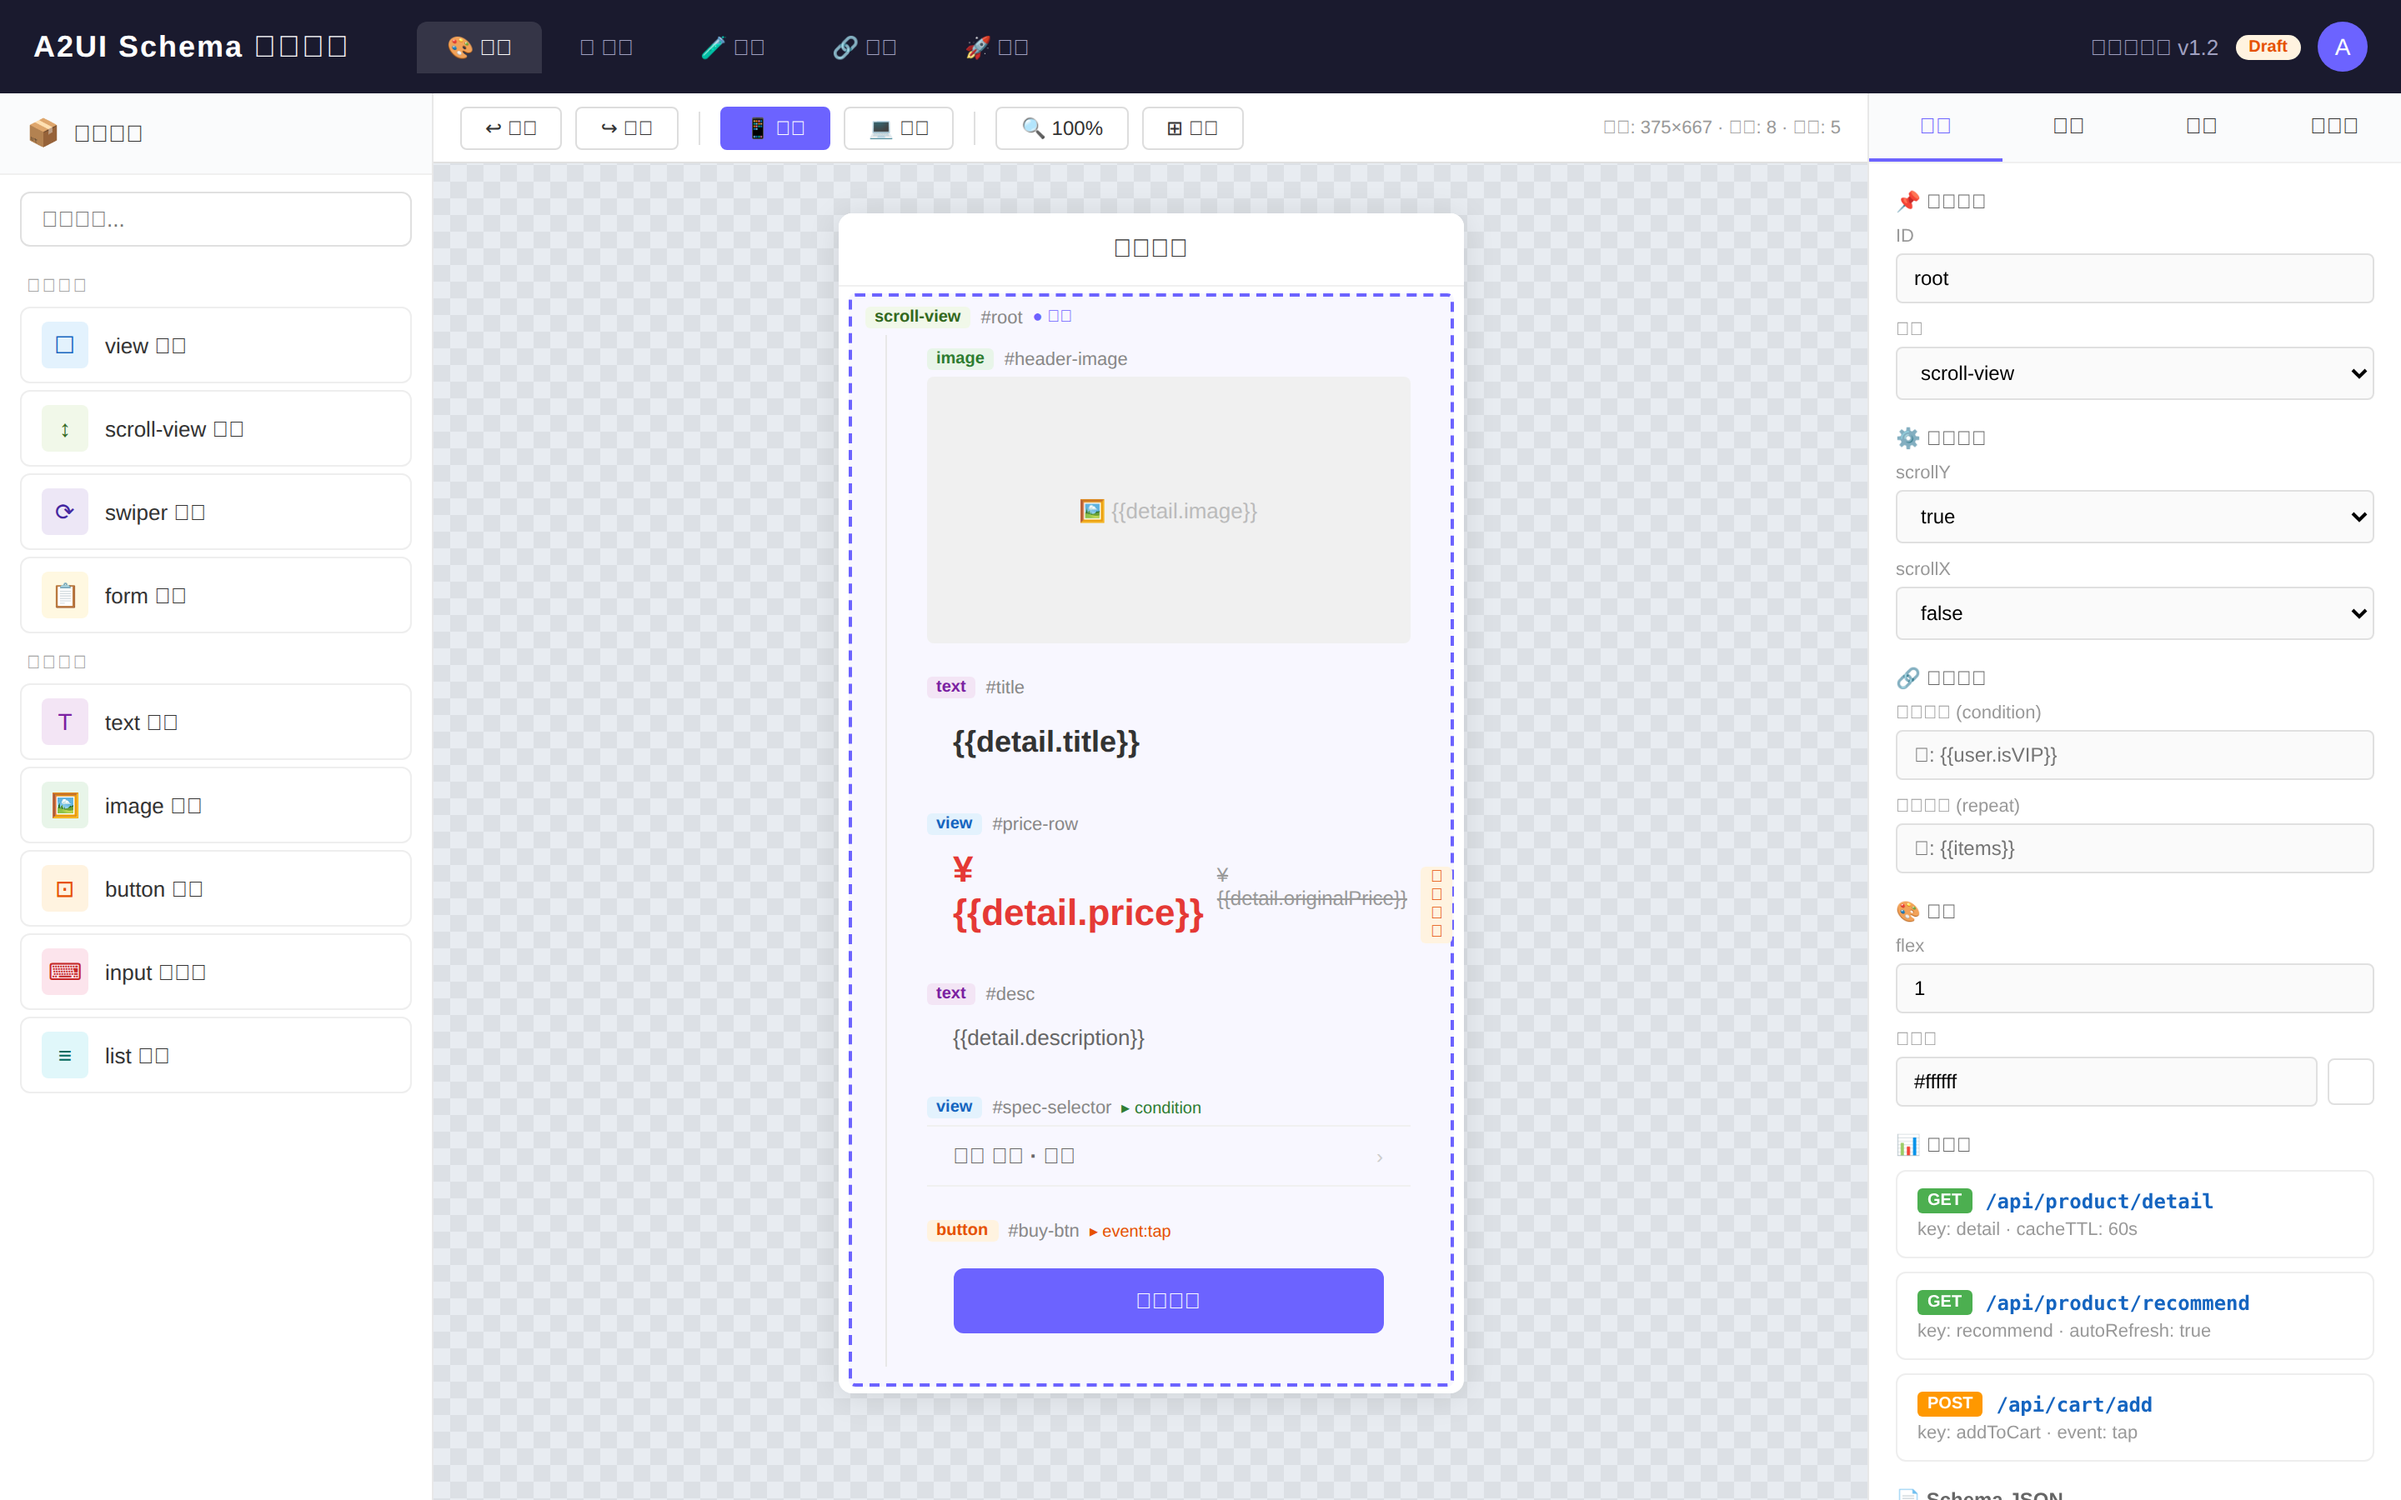
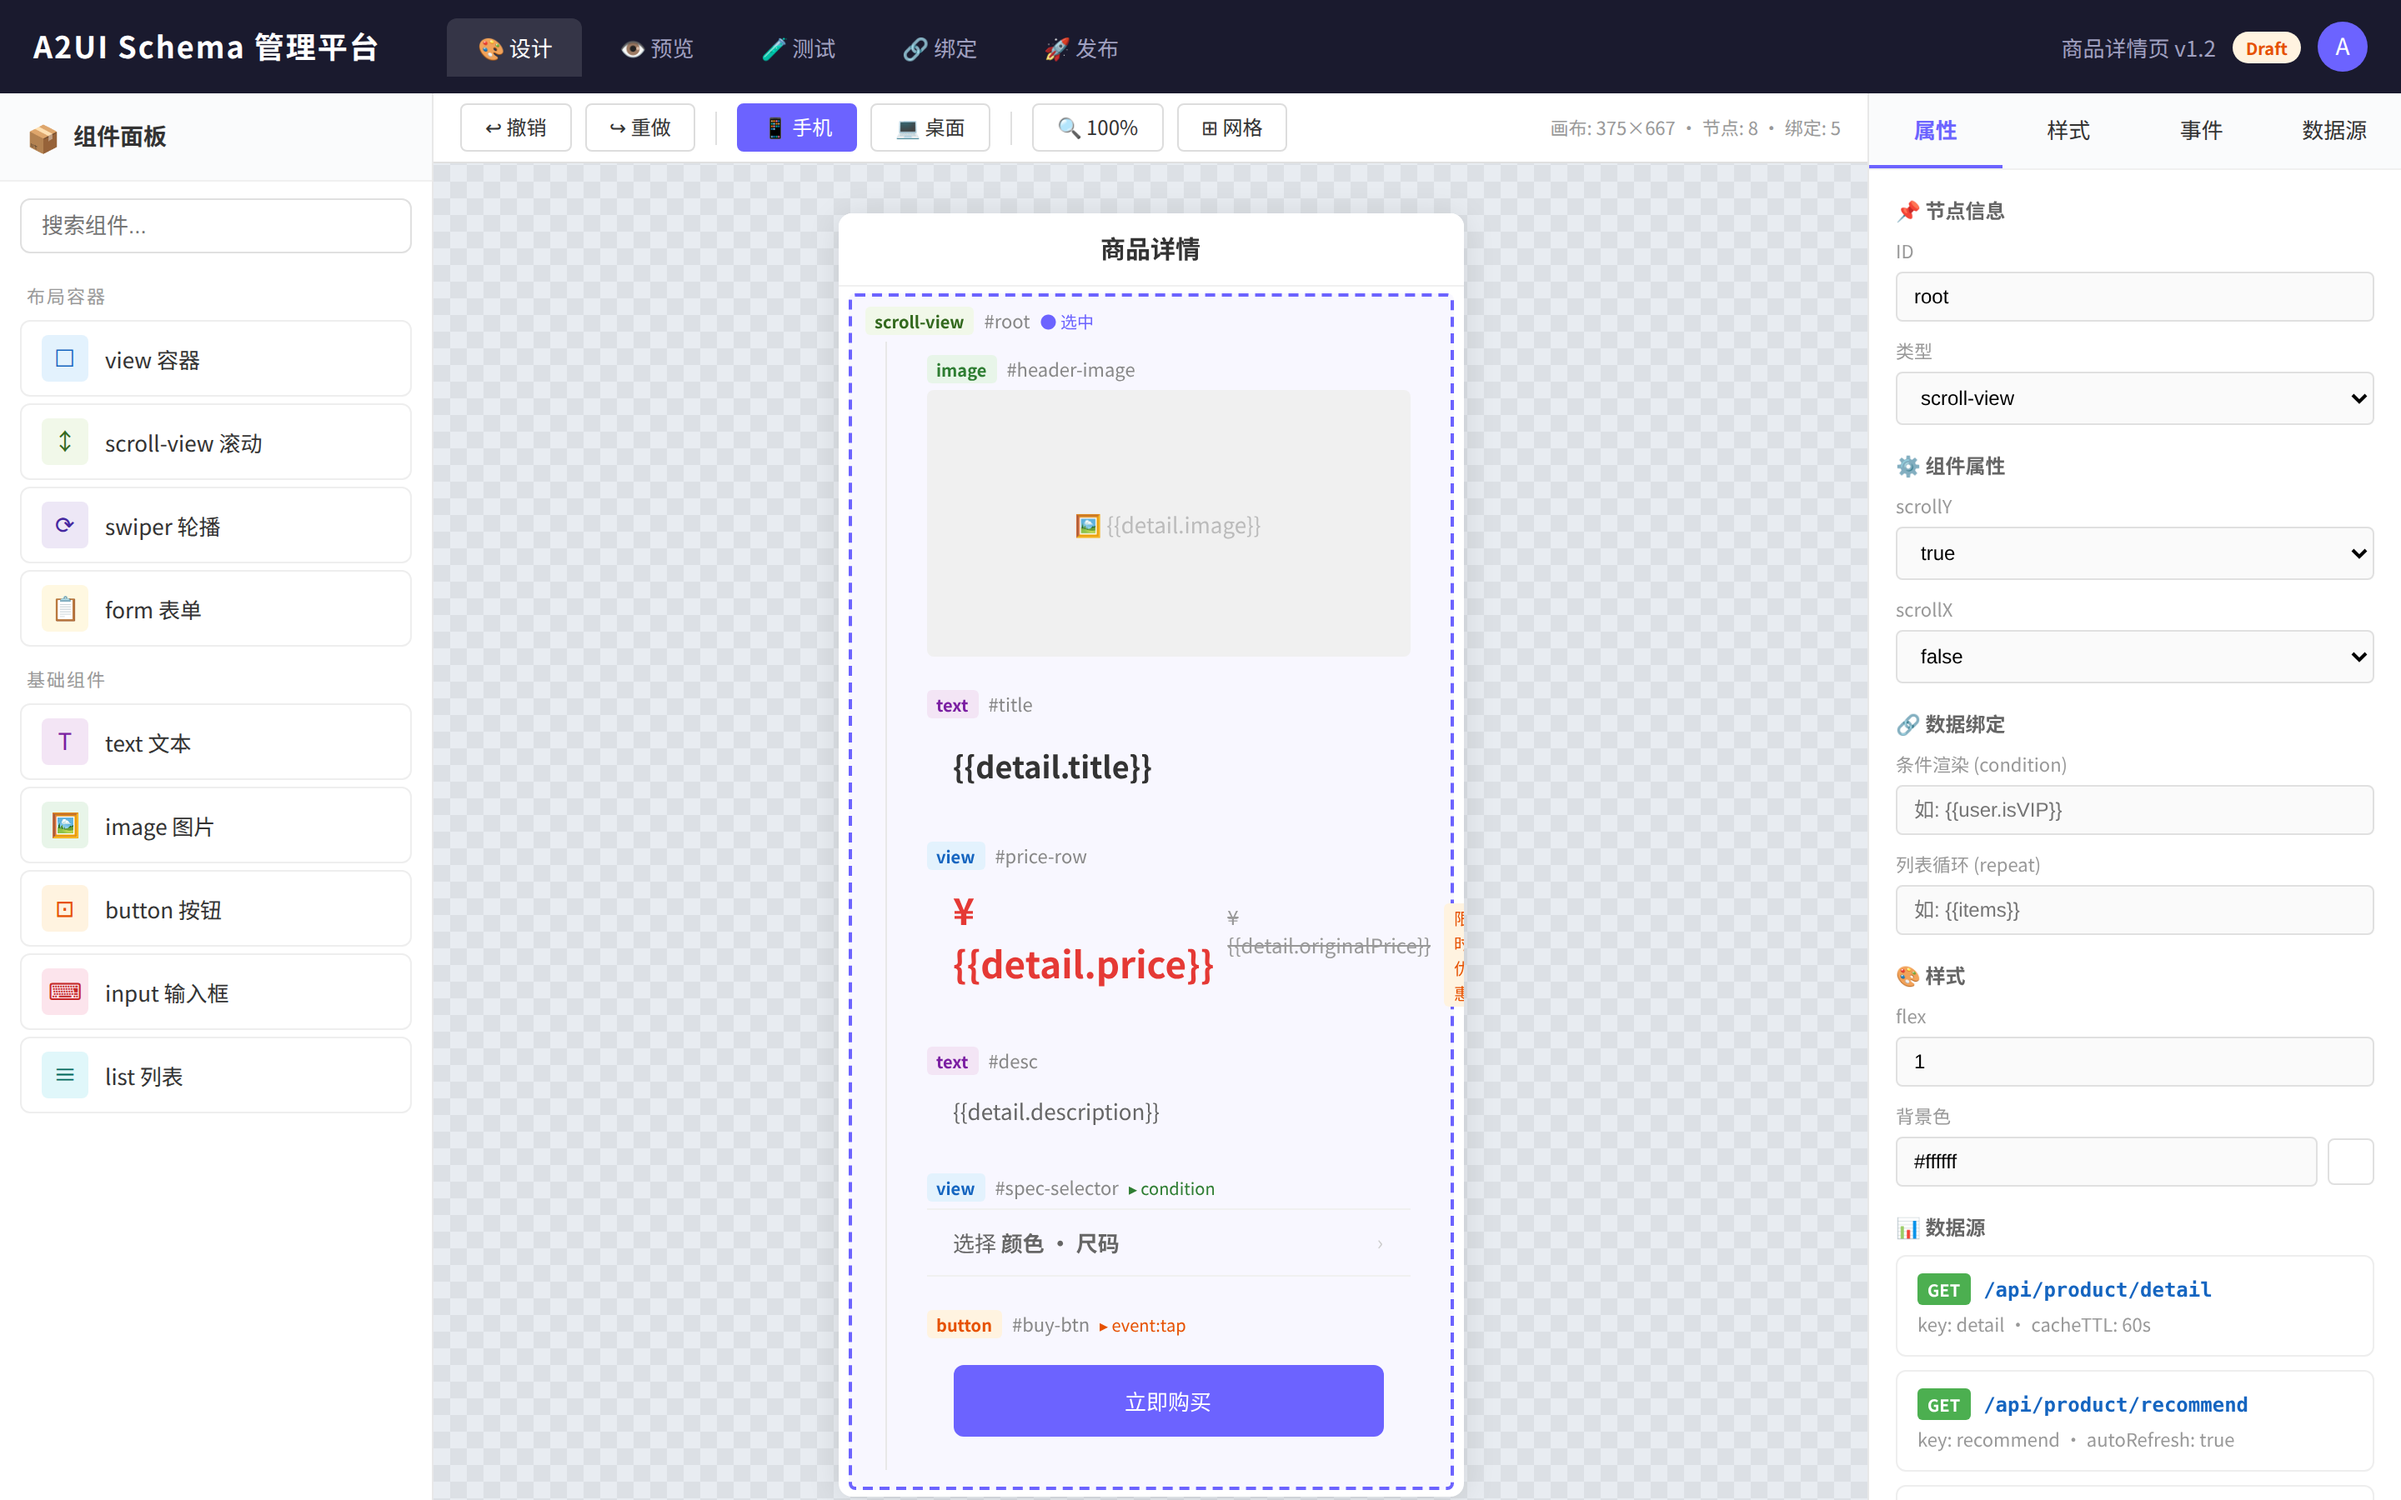
Fix garbled Chinese text in screenshots by adding Noto Sans CJK SC font fallback and improving font loading
- Add 'Noto Sans CJK SC' as font-family fallback in all 4 HTML pages
- Wait for document.fonts.ready before capturing screenshots
- Increase font loading wait time from 500ms to 1000ms
- Regenerate all 4 screenshots with properly rendered Chinese text

Agent-Logs-Url: https://github.com/pubsoft-cn/a2ui-v1/sessions/e05aa36f-8ebe-4e8c-81aa-0da3fbf450a0

diff --git a/platform/miniprogram-operation.html b/platform/miniprogram-operation.html
@@ -6,7 +6,7 @@
 <title>小程序端 - 操作界面</title>
 <style>
 * { margin: 0; padding: 0; box-sizing: border-box; }
-body { font-family: -apple-system, BlinkMacSystemFont, 'PingFang SC', sans-serif; background: #111; display: flex; justify-content: center; align-items: center; min-height: 100vh; }
+body { font-family: -apple-system, BlinkMacSystemFont, 'PingFang SC', 'Noto Sans CJK SC', sans-serif; background: #111; display: flex; justify-content: center; align-items: center; min-height: 100vh; }
 .phone-outer { width: 399px; height: 862px; background: #111; border-radius: 44px; padding: 12px; box-shadow: 0 10px 60px rgba(0,0,0,.5); }
 .phone-inner { width: 100%; height: 100%; background: #fff; border-radius: 34px; overflow: hidden; display: flex; flex-direction: column; }
 

diff --git a/platform/miniprogram-preview.html b/platform/miniprogram-preview.html
@@ -6,7 +6,7 @@
 <title>小程序端 - 预览界面</title>
 <style>
 * { margin: 0; padding: 0; box-sizing: border-box; }
-body { font-family: -apple-system, BlinkMacSystemFont, 'PingFang SC', sans-serif; background: #111; display: flex; justify-content: center; align-items: center; min-height: 100vh; }
+body { font-family: -apple-system, BlinkMacSystemFont, 'PingFang SC', 'Noto Sans CJK SC', sans-serif; background: #111; display: flex; justify-content: center; align-items: center; min-height: 100vh; }
 .phone-outer { width: 399px; height: 862px; background: #111; border-radius: 44px; padding: 12px; box-shadow: 0 10px 60px rgba(0,0,0,.5); }
 .phone-inner { width: 100%; height: 100%; background: #fff; border-radius: 34px; overflow: hidden; display: flex; flex-direction: column; }
 

diff --git a/platform/management-design.html b/platform/management-design.html
@@ -6,7 +6,7 @@
 <title>A2UI Schema 管理平台 - 设计界面</title>
 <style>
 * { margin: 0; padding: 0; box-sizing: border-box; }
-body { font-family: -apple-system, BlinkMacSystemFont, 'PingFang SC', 'Segoe UI', sans-serif; background: #f0f2f5; color: #333; }
+body { font-family: -apple-system, BlinkMacSystemFont, 'PingFang SC', 'Noto Sans CJK SC', 'Segoe UI', sans-serif; background: #f0f2f5; color: #333; }
 
 /* ─── Top Nav ─── */
 .top-nav { display: flex; align-items: center; height: 56px; background: #1a1a2e; color: #fff; padding: 0 20px; }

diff --git a/platform/management-preview.html b/platform/management-preview.html
@@ -6,7 +6,7 @@
 <title>A2UI Schema 管理平台 - 预览界面</title>
 <style>
 * { margin: 0; padding: 0; box-sizing: border-box; }
-body { font-family: -apple-system, BlinkMacSystemFont, 'PingFang SC', 'Segoe UI', sans-serif; background: #f0f2f5; color: #333; }
+body { font-family: -apple-system, BlinkMacSystemFont, 'PingFang SC', 'Noto Sans CJK SC', 'Segoe UI', sans-serif; background: #f0f2f5; color: #333; }
 
 /* ─── Top Nav ─── */
 .top-nav { display: flex; align-items: center; height: 56px; background: #1a1a2e; color: #fff; padding: 0 20px; }

diff --git a/scripts/capture-screenshots.ts b/scripts/capture-screenshots.ts
@@ -85,8 +85,9 @@ async function captureScreenshots(): Promise<void> {
 
     await page.goto(fileUrl, { waitUntil: 'networkidle' });
 
-    // Wait a bit for fonts and rendering to settle
-    await page.waitForTimeout(500);
+    // Wait for fonts to fully load and rendering to settle
+    await page.evaluate(() => document.fonts.ready);
+    await page.waitForTimeout(1000);
 
     await page.screenshot({
       path: outputPath,
